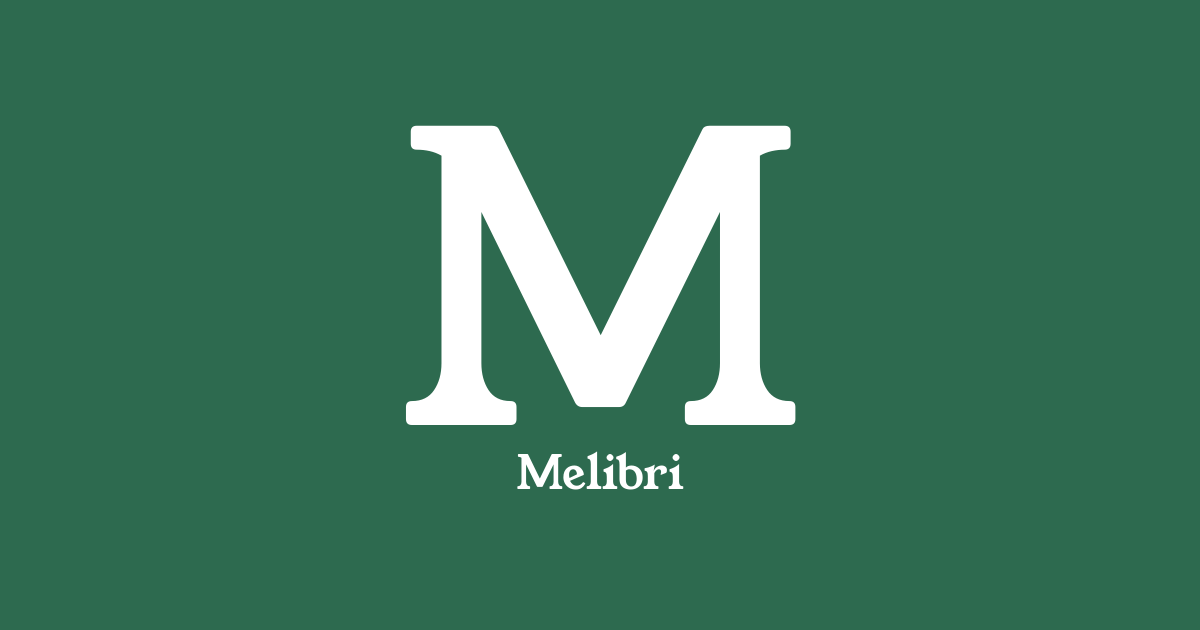
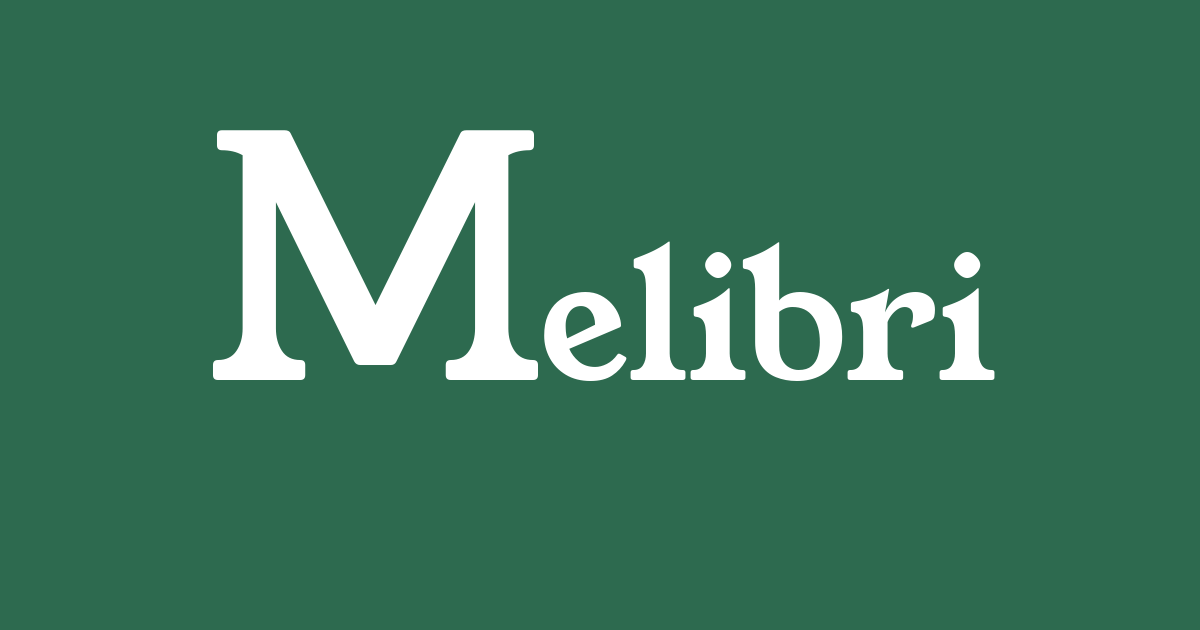
Wordmark: the oversized M is now the M in Melibri
The feature graphic set the icon beside the name, so the M appeared
twice - once as a mark, once as a letter. Now it does both jobs: one
word with a drop-cap initial, which is also what makes the launcher
icon read as an abbreviation of the wordmark rather than a separate
logo.

Shared wordmark() helper, so the OG card and the feature graphic use the
same lockup and stay in step. The join is kerned in slightly - the M's
right serif already reaches toward the next letter, so metric spacing
left a visible gap.

Tagline dropped from both while it is being reworked.

Claude-Session: https://claude.ai/code/session_01St2zqu9cTTQSds7HkwwN9c

Changed region(s): [[0.1542, 0.181, 0.8325, 0.6937], [0.4317, 0.7238, 0.5858, 0.7841]]

diff --git a/assets/generate-icons.py b/assets/generate-icons.py
@@ -119,24 +119,40 @@ save_rgb(tile(180, radius_frac=0, height_frac=0.56), os.path.join(SITE, "apple-t
 
 # Open Graph card - what renders when the domain is pasted into a social
 # post or a chat. 1200x630 is the size every platform crops toward.
+
+
+def wordmark(draw, centre_x, baseline_y, cap_px, fg=WHITE):
+    """
+    "Melibri" set so the oversized M IS the app icon's M - one word with
+    a drop-cap initial, rather than a logo sitting beside its own name.
+
+    cap_px is the cap height of the big M; the rest of the word is set at
+    a fraction of it and shares the same baseline.
+    """
+    big = fit_font(cap_px)
+    small = fit_font(cap_px * 0.52)
+
+    w_big = draw.textlength("M", font=big)
+    w_rest = draw.textlength("elibri", font=small)
+    # Tighten the join slightly - the M's right serif already reaches
+    # toward the following letter, so metric spacing reads as a gap.
+    kern = -cap_px * 0.035
+    total = w_big + kern + w_rest
+
+    x = centre_x - total / 2
+    draw.text((x, baseline_y), "M", font=big, fill=fg + (255,), anchor="ls")
+    draw.text((x + w_big + kern, baseline_y), "elibri", font=small,
+              fill=fg + (255,), anchor="ls")
+    return total
+
+
 og = Image.new("RGBA", (1200, 630), GREEN + (255,))
-_f = fit_font(300)
-_x0, _y0, _x1, _y1 = _f.getbbox(LETTER)
-ImageDraw.Draw(og).text(
-    ((1200 - (_x1 - _x0)) / 2 - _x0, (630 - (_y1 - _y0)) / 2 - _y0 - 40),
-    LETTER, font=_f, fill=WHITE + (255,),
-)
-_sub = ImageFont.truetype(FONT_PATH, 46)
-_w = ImageDraw.Draw(og).textlength("Melibri", font=_sub)
-ImageDraw.Draw(og).text(((1200 - _w) / 2, 440), "Melibri", font=_sub, fill=WHITE + (255,))
+wordmark(ImageDraw.Draw(og), 600, 380, 250)
 save_rgb(og, os.path.join(SITE, "og.png"), bg=GREEN)
 
 
 # ---------------------------------------------------------------------
 # Play Store listing assets (store/play/)
-#
-# Same mark again, so the launcher icon, the website and the store
-# listing cannot drift apart.
 # ---------------------------------------------------------------------
 
 PLAY = os.path.join(os.path.dirname(HERE), "store", "play")
@@ -146,17 +162,8 @@ os.makedirs(PLAY, exist_ok=True)
 # (Play applies its own mask).
 save_rgb(tile(512, radius_frac=0, height_frac=0.56), os.path.join(PLAY, "icon-512.png"))
 
-# Feature graphic: 1024x500, sits at the top of the listing. Play crops
-# it on some surfaces, so nothing important goes near the edges.
-fg = Image.new("RGBA", (1024, 500), GREEN + (255,))
-_d = ImageDraw.Draw(fg)
-
-_mark = tile(300, radius_frac=0.22, height_frac=0.56, bg=None, fg=WHITE)
-fg.paste(_mark, (150, 100), _mark)
-
-_name = ImageFont.truetype(FONT_PATH, 82)
-_tag = ImageFont.truetype(FONT_PATH, 34)
-_d.text((470, 195), "Melibri", font=_name, fill=WHITE + (255,))
-_d.text((476, 292), "my recipe kitchen", font=_tag, fill=(233, 180, 76, 255))
-
-save_rgb(fg, os.path.join(PLAY, "feature-graphic.png"), bg=GREEN)
+# Feature graphic: 1024x500, top of the listing. Play crops it on some
+# surfaces, so the wordmark stays well inside the edges.
+fg_img = Image.new("RGBA", (1024, 500), GREEN + (255,))
+wordmark(ImageDraw.Draw(fg_img), 512, 315, 200)
+save_rgb(fg_img, os.path.join(PLAY, "feature-graphic.png"), bg=GREEN)
